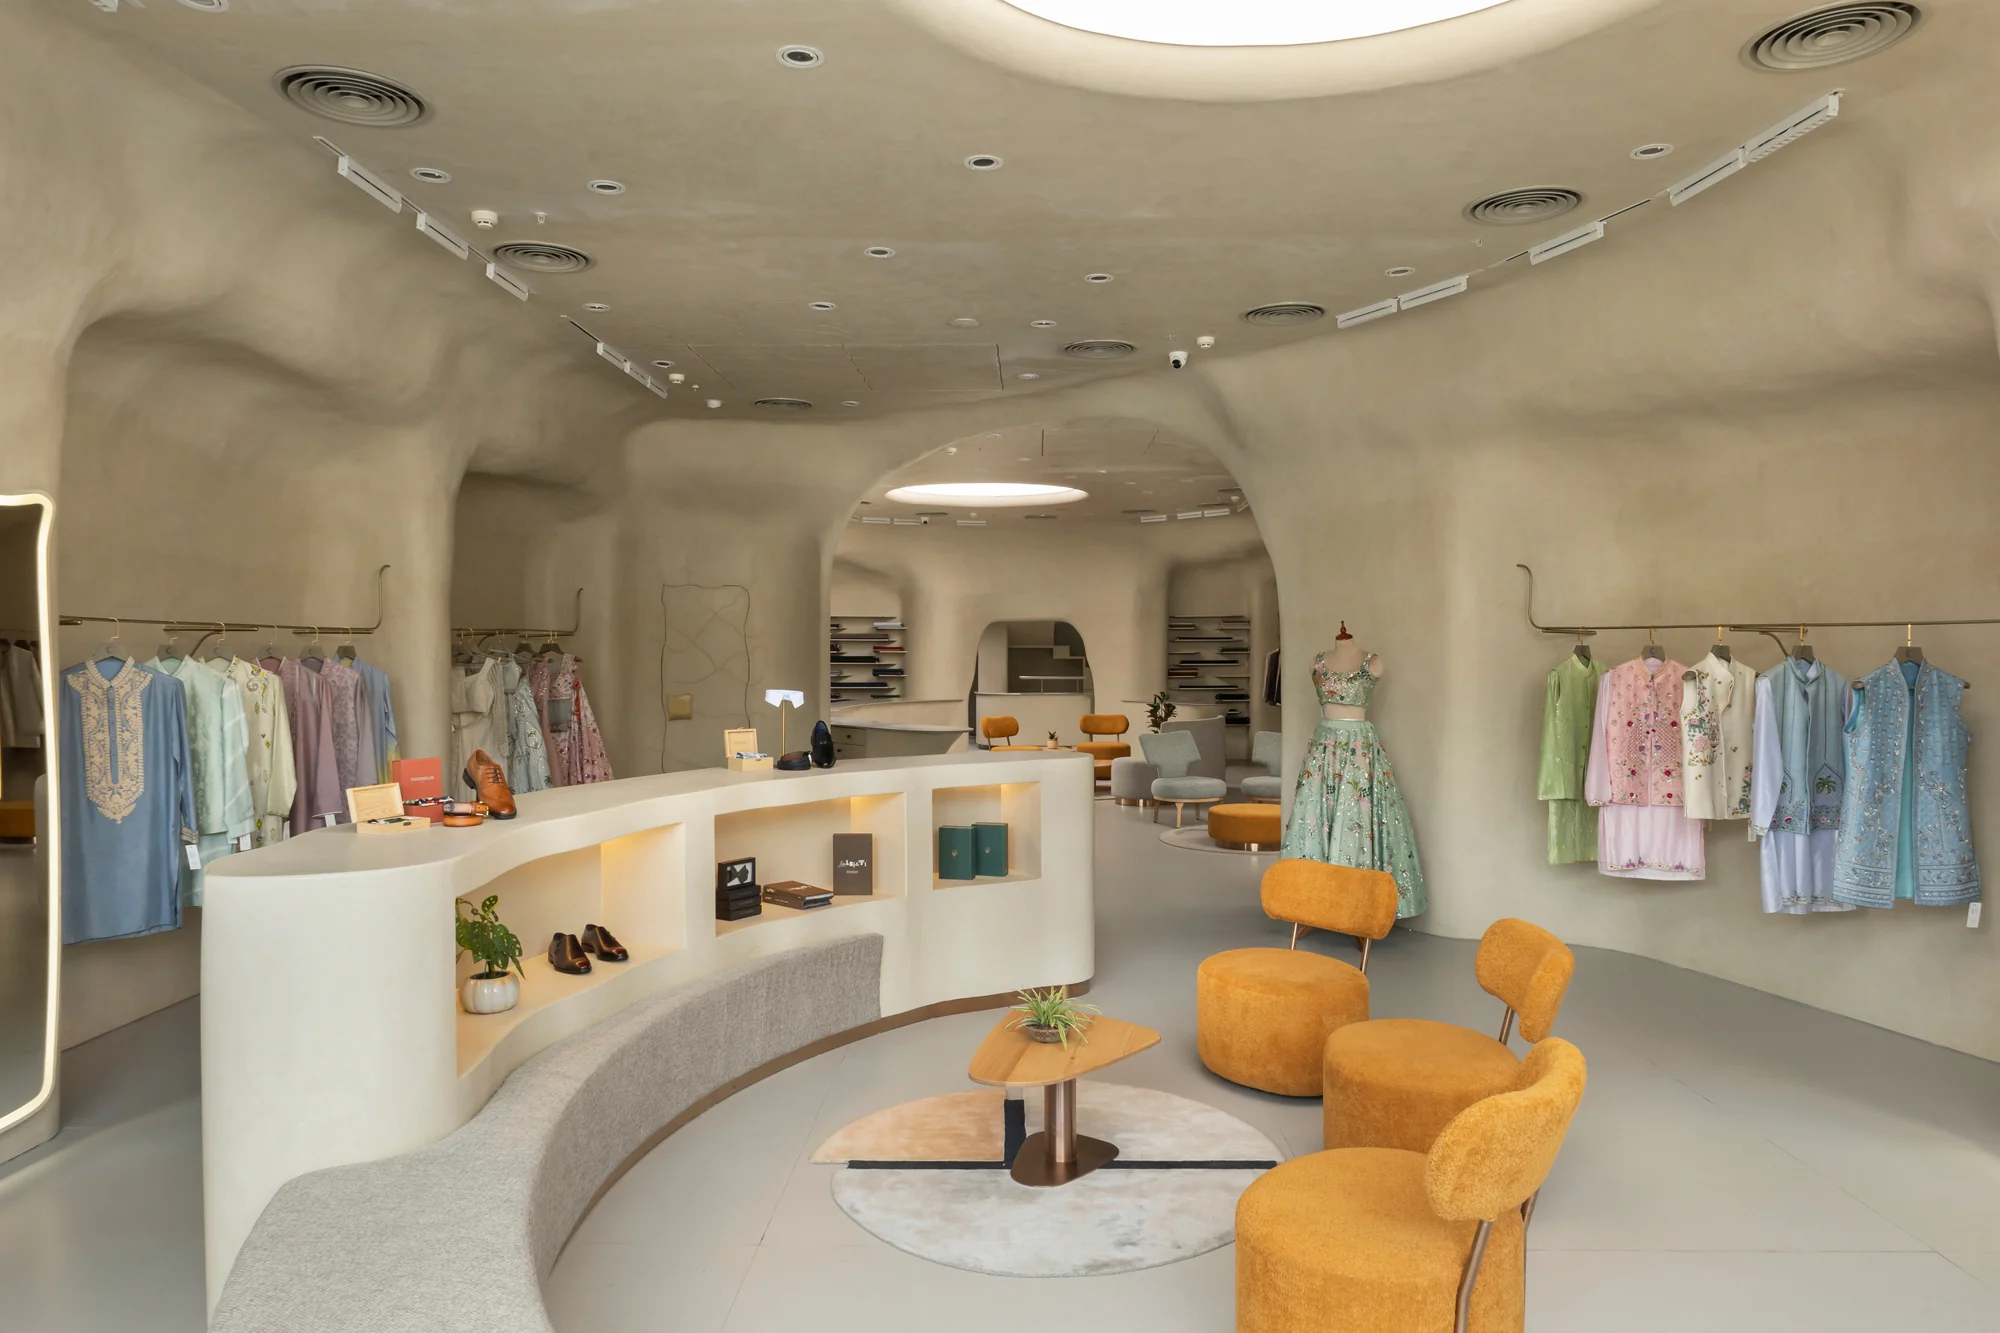
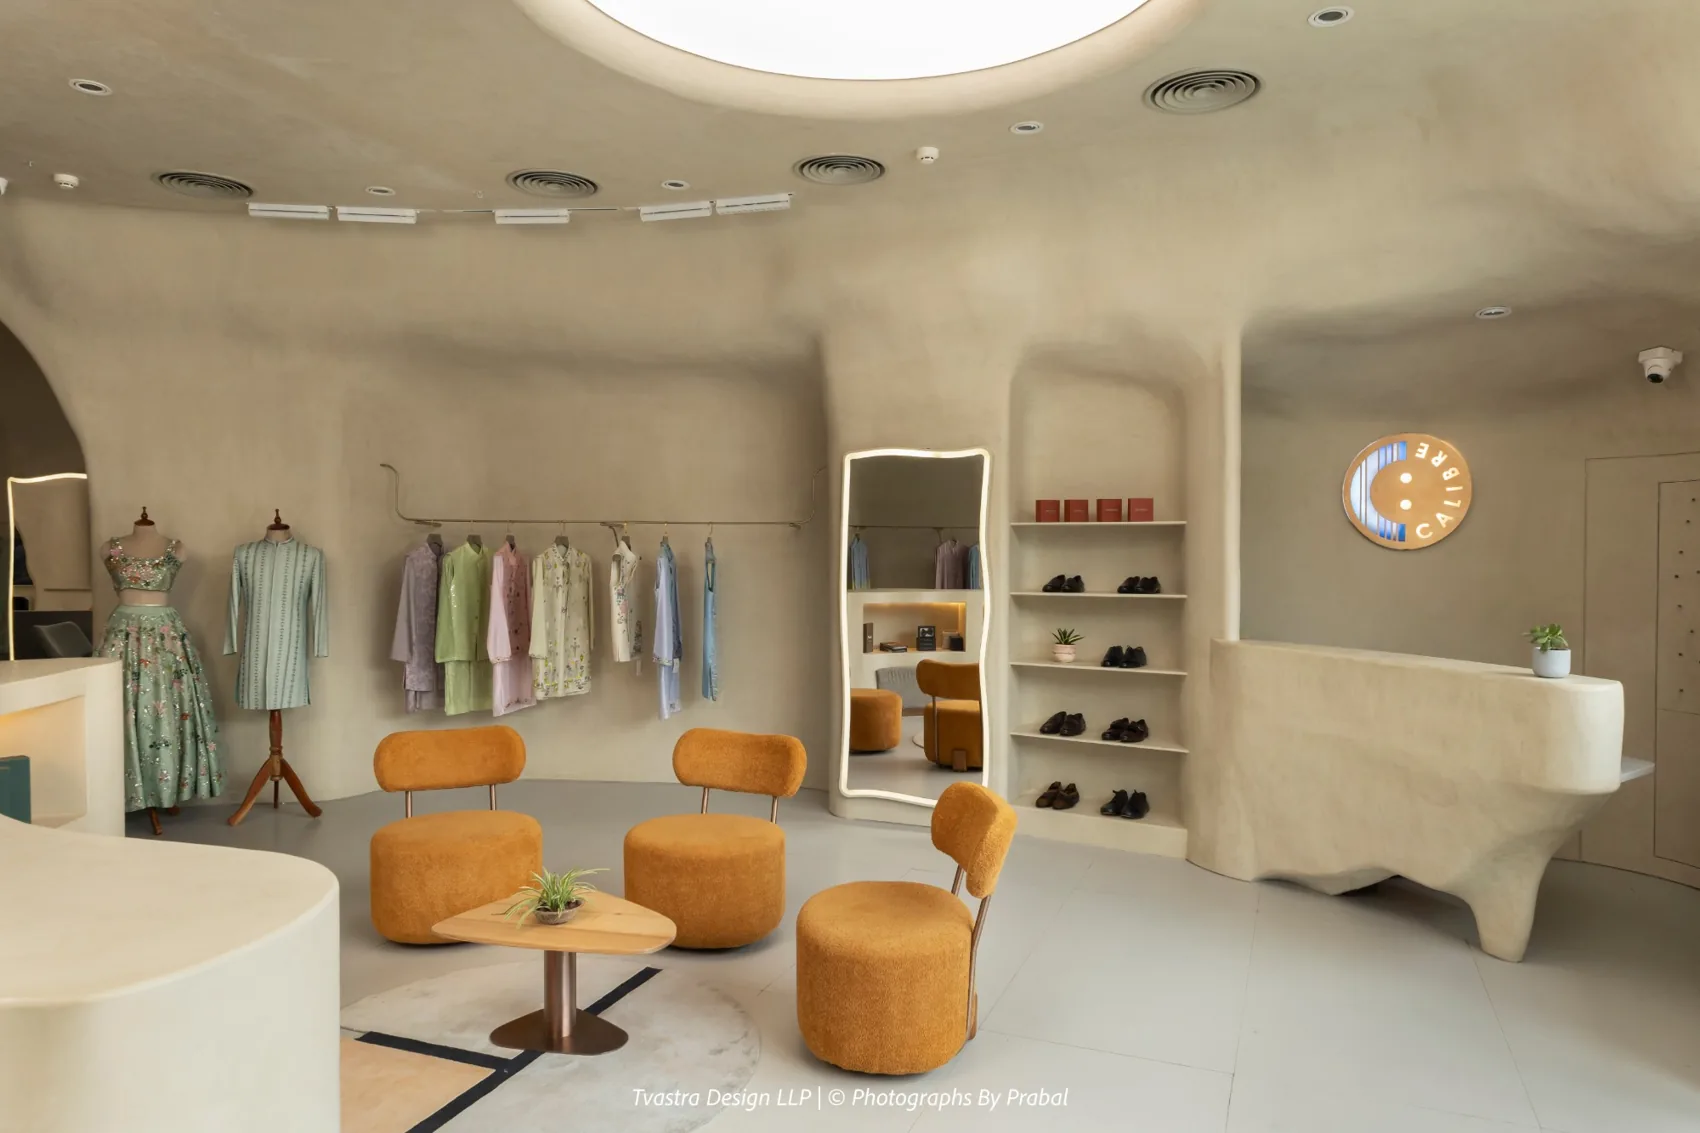
Calibre: replace gallery with new boutique photos (keep hero; drop Moments)

diff --git a/calibre.html b/calibre.html
@@ -92,38 +92,20 @@
   </div>
   <div class="slideshow reveal" data-autoplay="5500" aria-roledescription="carousel" aria-label="Calibre interior">
     <div class="slideshow__viewport">
-      <figure class="slide is-active" data-cap="Circular seating islands beneath the sculpted skylight."><img src="assets/projects/calibre/look-01.webp" alt="Calibre, circular seating island" /></figure>
-      <figure class="slide" data-cap="Arched display niches carved into the plaster walls."><img src="assets/projects/calibre/look-02.webp" alt="Calibre, arched display niches" loading="lazy" /></figure>
-      <figure class="slide" data-cap="Floating hanging racks keep the circulation open."><img src="assets/projects/calibre/look-03.webp" alt="Calibre, floating hanging racks" loading="lazy" /></figure>
-      <figure class="slide" data-cap="A lounge-like pod for browsing and fitting."><img src="assets/projects/calibre/look-04.webp" alt="Calibre, lounge-like browsing pod" loading="lazy" /></figure>
-      <figure class="slide" data-cap="The sweeping perimeter wall folds around the room."><img src="assets/projects/calibre/look-05.webp" alt="Calibre, sweeping perimeter wall" loading="lazy" /></figure>
-      <figure class="slide" data-cap="Daylight from the arched window across the curves."><img src="assets/projects/calibre/look-06.webp" alt="Calibre, daylight across the curved interior" loading="lazy" /></figure>
+      <figure class="slide is-active" data-cap="The salon, sculpted plaster and warm bouclé seating."><img src="assets/projects/calibre/look-01.webp" alt="Calibre, the salon seating and garments" /></figure>
+      <figure class="slide" data-cap="A sweeping reception carved from the curved shell."><img src="assets/projects/calibre/look-02.webp" alt="Calibre, the sweeping reception" loading="lazy" /></figure>
+      <figure class="slide" data-cap="A daylit lounge framed by the arched window."><img src="assets/projects/calibre/look-03.webp" alt="Calibre, the daylit lounge" loading="lazy" /></figure>
+      <figure class="slide" data-cap="Fitting mirrors and a sculpted display counter."><img src="assets/projects/calibre/look-04.webp" alt="Calibre, fitting mirrors and display" loading="lazy" /></figure>
+      <figure class="slide" data-cap="Display shelving folds into the flowing walls."><img src="assets/projects/calibre/look-05.webp" alt="Calibre, display shelving in the curved wall" loading="lazy" /></figure>
     </div>
     <button class="slideshow__nav slideshow__nav--prev" aria-label="Previous image"><svg viewBox="0 0 24 24" fill="none" stroke="currentColor" stroke-width="1.4"><path d="M15 5l-7 7 7 7"/></svg></button>
     <button class="slideshow__nav slideshow__nav--next" aria-label="Next image"><svg viewBox="0 0 24 24" fill="none" stroke="currentColor" stroke-width="1.4"><path d="M9 5l7 7-7 7"/></svg></button>
     <div class="slideshow__bar">
       <div class="container slideshow__bar-inner">
-        <span class="slideshow__cap">Circular seating islands beneath the sculpted skylight.</span>
+        <span class="slideshow__cap">The salon, sculpted plaster and warm bouclé seating.</span>
         <div class="slideshow__dots" role="tablist"></div>
-        <span class="slideshow__counter"><span class="cur">01</span><span class="sep">&thinsp;/&thinsp;</span><span class="total">06</span></span>
+        <span class="slideshow__counter"><span class="cur">01</span><span class="sep">&thinsp;/&thinsp;</span><span class="total">05</span></span>
       </div>
-    </div>
-  </div>
-</section>
-
-<section class="section">
-  <div class="container">
-    <div class="pd-sec-head reveal">
-      <p class="eyebrow">Moments</p>
-      <h2 class="h-lg">In the detail.</h2>
-    </div>
-    <div class="mgrid reveal">
-      <figure class="mgrid__cell"><img src="assets/projects/calibre/moment-01.webp" alt="Calibre, a curved display detail" loading="lazy" /></figure>
-      <figure class="mgrid__cell"><img src="assets/projects/calibre/moment-02.webp" alt="Calibre, an arched niche with accessories" loading="lazy" /></figure>
-      <figure class="mgrid__cell"><img src="assets/projects/calibre/moment-03.webp" alt="Calibre, the fitting corner and mirror" loading="lazy" /></figure>
-      <figure class="mgrid__cell"><img src="assets/projects/calibre/moment-04.webp" alt="Calibre, the lounge seating framed by the sculpted arch" loading="lazy" /></figure>
-      <figure class="mgrid__cell"><img src="assets/projects/calibre/moment-05.webp" alt="Calibre, the sweeping reception desk under the skylight" loading="lazy" /></figure>
-      <figure class="mgrid__cell"><img src="assets/projects/calibre/moment-06.webp" alt="Calibre, the curved cash counter and display shelving" loading="lazy" /></figure>
     </div>
   </div>
 </section>

diff --git a/build.js b/build.js
@@ -1624,38 +1624,20 @@ const calibre = `
   </div>
   <div class="slideshow reveal" data-autoplay="5500" aria-roledescription="carousel" aria-label="Calibre interior">
     <div class="slideshow__viewport">
-      <figure class="slide is-active" data-cap="Circular seating islands beneath the sculpted skylight."><img src="${CIMG}look-01.webp" alt="Calibre, circular seating island" /></figure>
-      <figure class="slide" data-cap="Arched display niches carved into the plaster walls."><img src="${CIMG}look-02.webp" alt="Calibre, arched display niches" loading="lazy" /></figure>
-      <figure class="slide" data-cap="Floating hanging racks keep the circulation open."><img src="${CIMG}look-03.webp" alt="Calibre, floating hanging racks" loading="lazy" /></figure>
-      <figure class="slide" data-cap="A lounge-like pod for browsing and fitting."><img src="${CIMG}look-04.webp" alt="Calibre, lounge-like browsing pod" loading="lazy" /></figure>
-      <figure class="slide" data-cap="The sweeping perimeter wall folds around the room."><img src="${CIMG}look-05.webp" alt="Calibre, sweeping perimeter wall" loading="lazy" /></figure>
-      <figure class="slide" data-cap="Daylight from the arched window across the curves."><img src="${CIMG}look-06.webp" alt="Calibre, daylight across the curved interior" loading="lazy" /></figure>
+      <figure class="slide is-active" data-cap="The salon, sculpted plaster and warm bouclé seating."><img src="${CIMG}look-01.webp" alt="Calibre, the salon seating and garments" /></figure>
+      <figure class="slide" data-cap="A sweeping reception carved from the curved shell."><img src="${CIMG}look-02.webp" alt="Calibre, the sweeping reception" loading="lazy" /></figure>
+      <figure class="slide" data-cap="A daylit lounge framed by the arched window."><img src="${CIMG}look-03.webp" alt="Calibre, the daylit lounge" loading="lazy" /></figure>
+      <figure class="slide" data-cap="Fitting mirrors and a sculpted display counter."><img src="${CIMG}look-04.webp" alt="Calibre, fitting mirrors and display" loading="lazy" /></figure>
+      <figure class="slide" data-cap="Display shelving folds into the flowing walls."><img src="${CIMG}look-05.webp" alt="Calibre, display shelving in the curved wall" loading="lazy" /></figure>
     </div>
     <button class="slideshow__nav slideshow__nav--prev" aria-label="Previous image"><svg viewBox="0 0 24 24" fill="none" stroke="currentColor" stroke-width="1.4"><path d="M15 5l-7 7 7 7"/></svg></button>
     <button class="slideshow__nav slideshow__nav--next" aria-label="Next image"><svg viewBox="0 0 24 24" fill="none" stroke="currentColor" stroke-width="1.4"><path d="M9 5l7 7-7 7"/></svg></button>
     <div class="slideshow__bar">
       <div class="container slideshow__bar-inner">
-        <span class="slideshow__cap">Circular seating islands beneath the sculpted skylight.</span>
+        <span class="slideshow__cap">The salon, sculpted plaster and warm bouclé seating.</span>
         <div class="slideshow__dots" role="tablist"></div>
-        <span class="slideshow__counter"><span class="cur">01</span><span class="sep">&thinsp;/&thinsp;</span><span class="total">06</span></span>
+        <span class="slideshow__counter"><span class="cur">01</span><span class="sep">&thinsp;/&thinsp;</span><span class="total">05</span></span>
       </div>
-    </div>
-  </div>
-</section>
-
-<section class="section">
-  <div class="container">
-    <div class="pd-sec-head reveal">
-      <p class="eyebrow">Moments</p>
-      <h2 class="h-lg">In the detail.</h2>
-    </div>
-    <div class="mgrid reveal">
-      <figure class="mgrid__cell"><img src="${CIMG}moment-01.webp" alt="Calibre, a curved display detail" loading="lazy" /></figure>
-      <figure class="mgrid__cell"><img src="${CIMG}moment-02.webp" alt="Calibre, an arched niche with accessories" loading="lazy" /></figure>
-      <figure class="mgrid__cell"><img src="${CIMG}moment-03.webp" alt="Calibre, the fitting corner and mirror" loading="lazy" /></figure>
-      <figure class="mgrid__cell"><img src="${CIMG}moment-04.webp" alt="Calibre, the lounge seating framed by the sculpted arch" loading="lazy" /></figure>
-      <figure class="mgrid__cell"><img src="${CIMG}moment-05.webp" alt="Calibre, the sweeping reception desk under the skylight" loading="lazy" /></figure>
-      <figure class="mgrid__cell"><img src="${CIMG}moment-06.webp" alt="Calibre, the curved cash counter and display shelving" loading="lazy" /></figure>
     </div>
   </div>
 </section>
